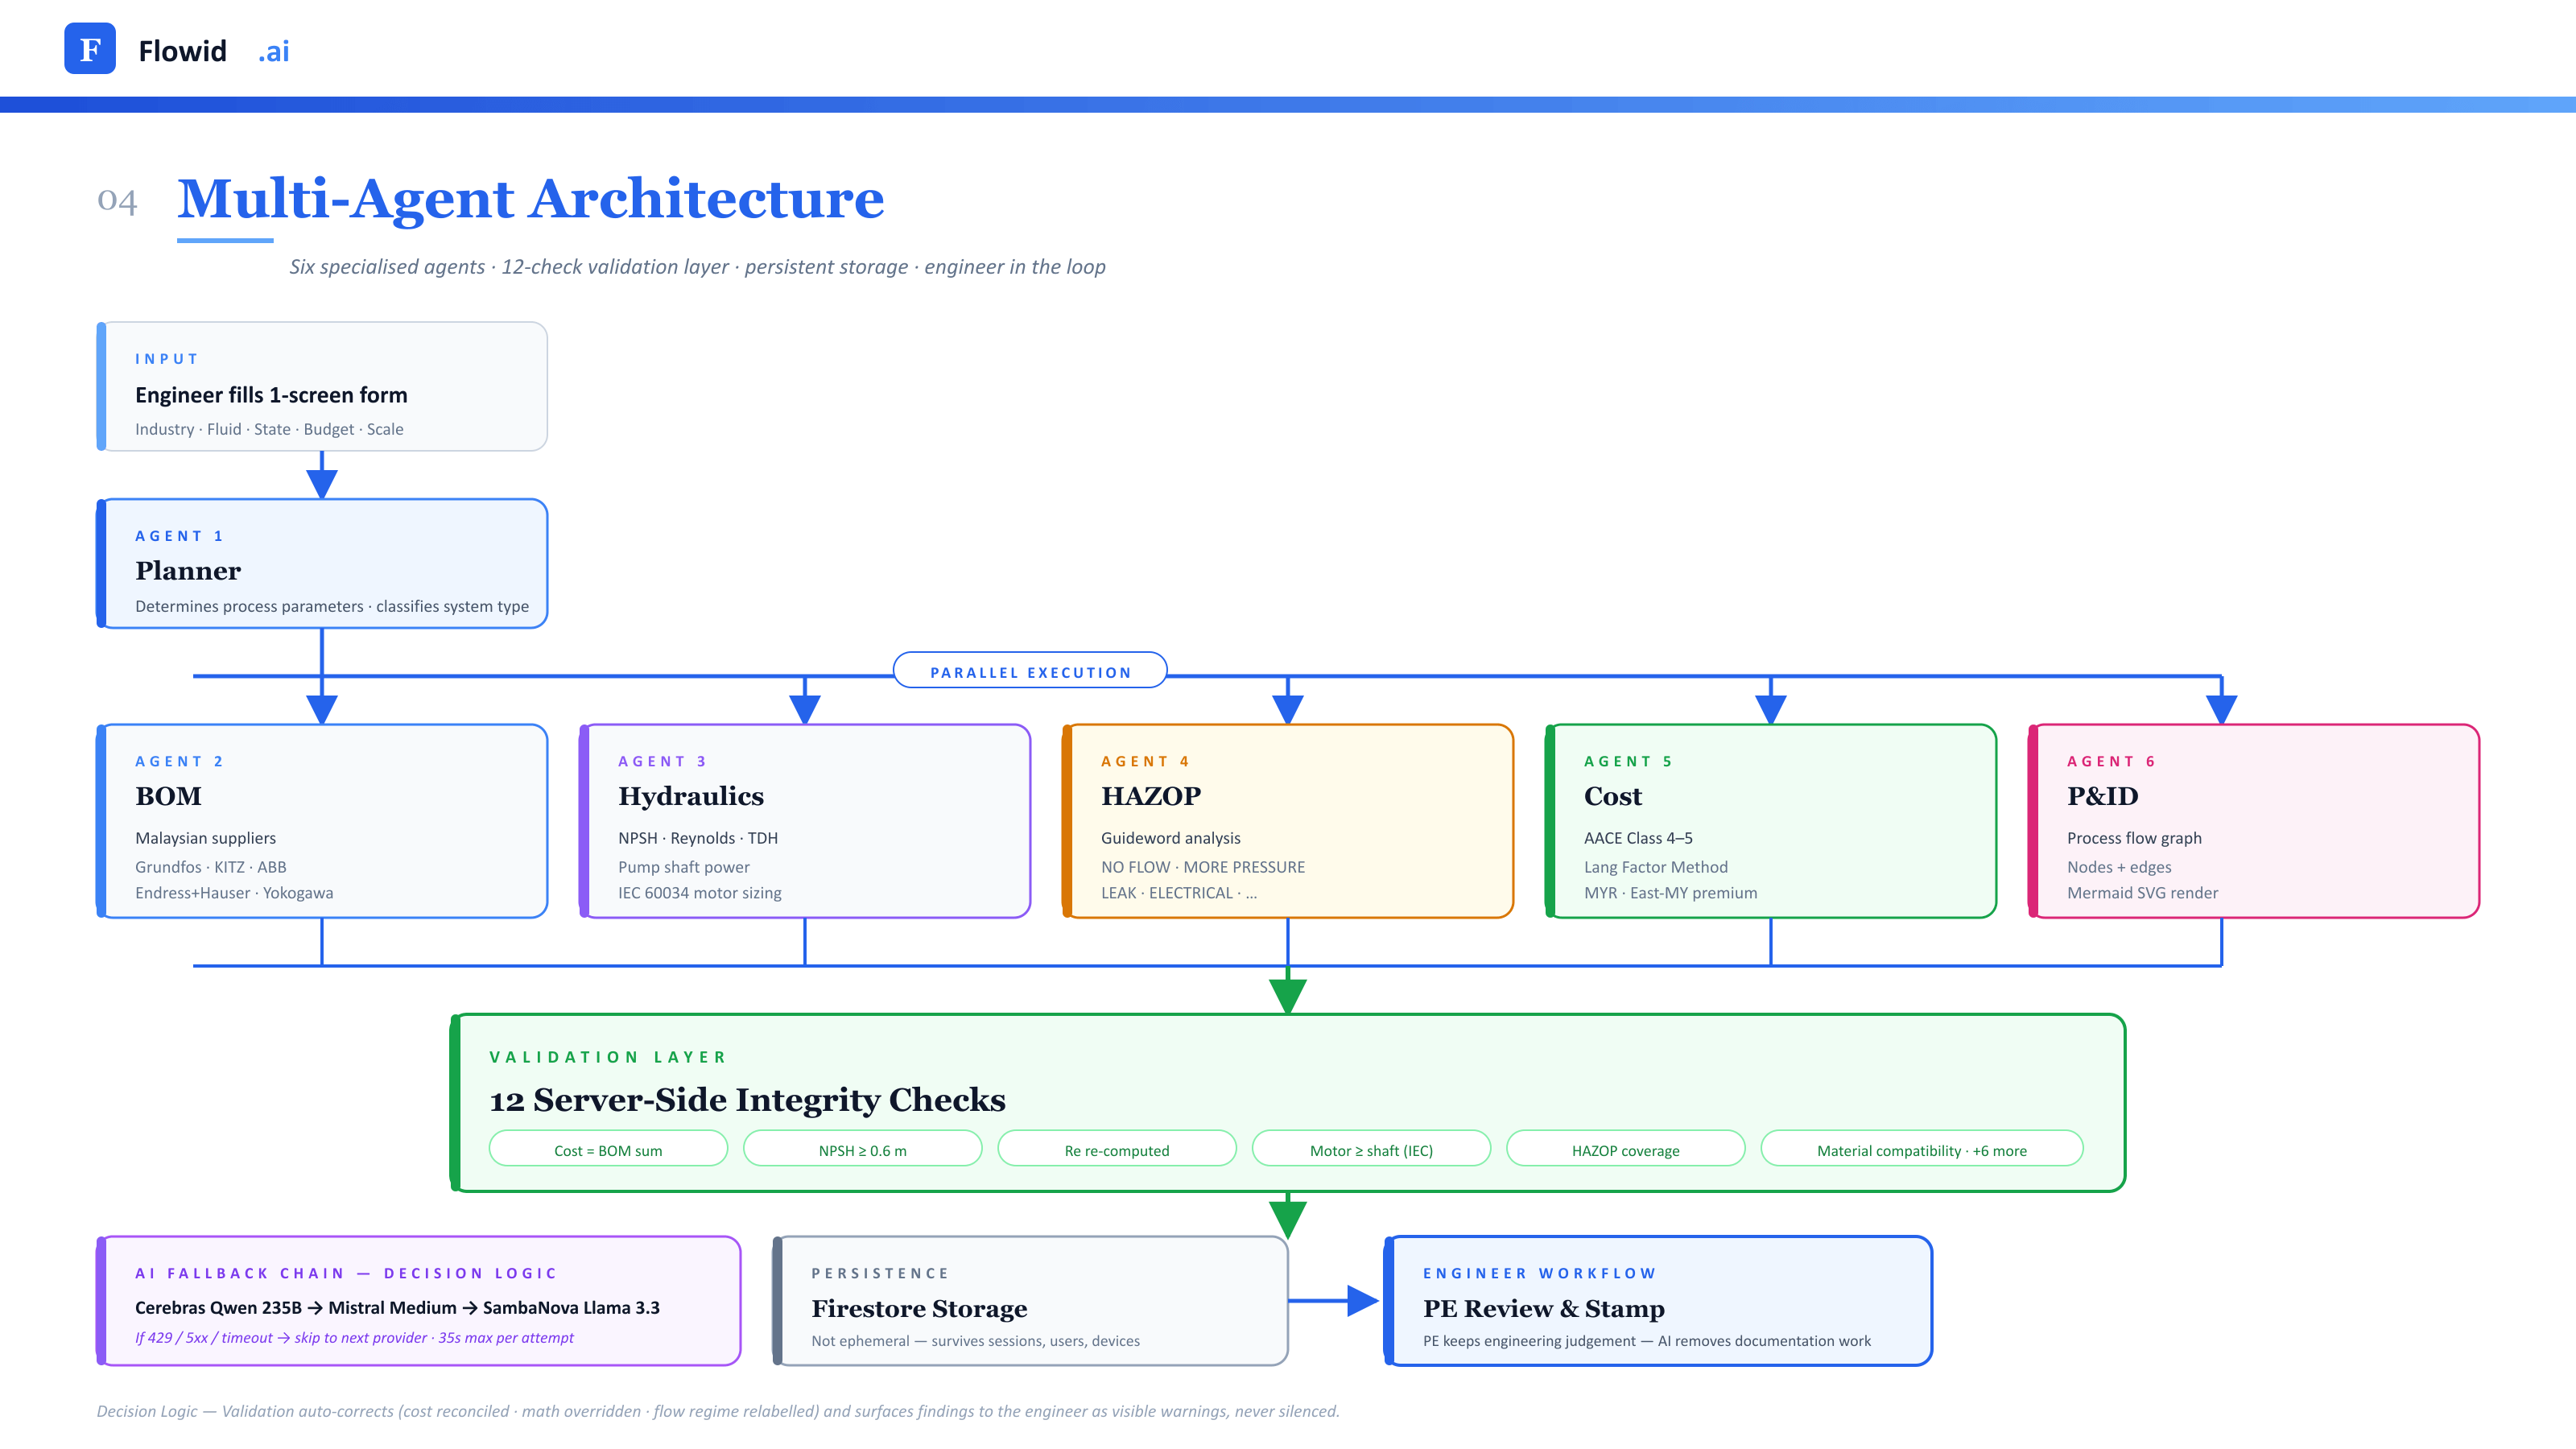
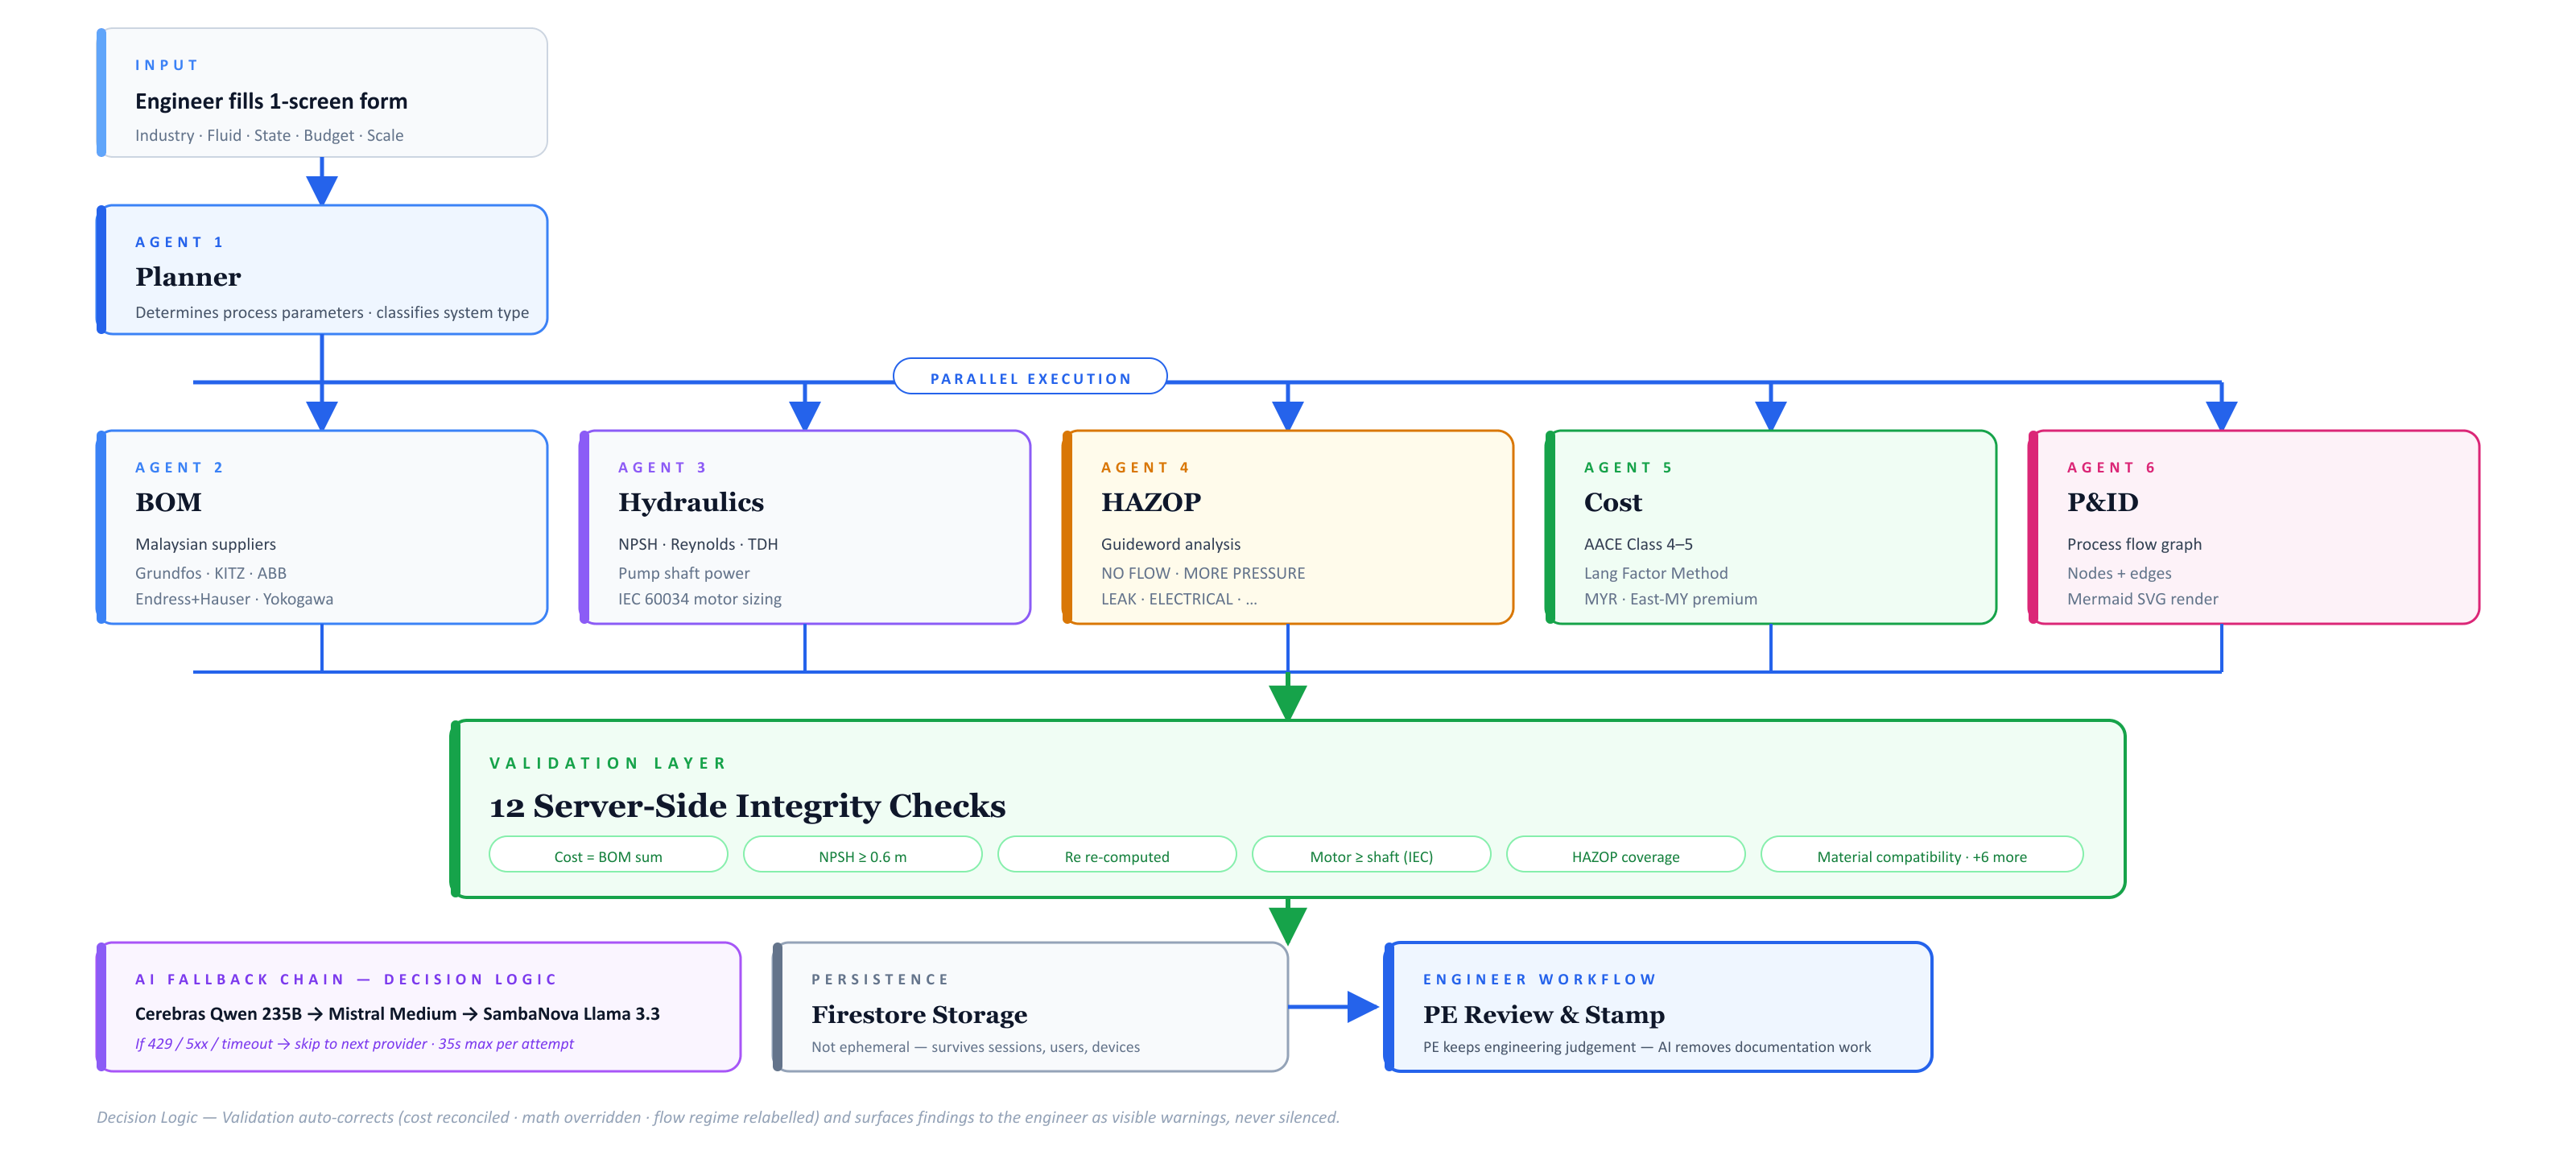
Fix validation: remove hard <8 component gate, accept any non-empty BOM

diff --git a/src/app/api/generate/route.ts b/src/app/api/generate/route.ts
@@ -570,9 +570,9 @@ INSTRUCTIONS:
 2. All costs in MYR. Use Malaysian market prices including SST.
 3. For suppliers: pick brands with offices or distributors nearest to ${state}. If in East Malaysia, account for extra logistics cost (10–15% premium). Calculate transportation cost separately as a line item based on shipment from supplier city to ${state}.
 4. Apply relevant Malaysian regulations (DOSH, BOMBA, SIRIM, DOE, PETRONAS PTS as applicable).
-5. For EVERY component, provide exactly 2 alternatives from DIFFERENT Malaysian suppliers with realistic MYR costs and confidence levels.
-6. For EVERY component assign a confidence_level (0–100) representing how confident you are this is the optimal choice for this specific application, fluid, and environment. Be honest — flag lower confidence when the application is unusual or specs are ambiguous.
-7. For EVERY component assign lifespan_years (expected service life before replacement/major overhaul under normal operating conditions in Malaysian climate) and lifespan_notes explaining key factors.
+5. SKIP the alternatives array for every component — leave "alternatives": [] to conserve output tokens for a complete BOM.
+6. For EVERY component assign confidence_level (0–100): how optimal this choice is for this fluid/environment.
+7. For EVERY component assign lifespan_years (service life before major overhaul in Malaysian climate).
 8. Assign overall_confidence (0–100) for the entire recommendation.
 9. COMPLETE BOM — procurement-ready, every physical item as its own line. Walk the P&ID from source to destination. Include all that apply (presence = engineering necessity; quantity = scale/budget):
 
@@ -629,7 +629,14 @@ PROCESS FLOW DIAGRAM (P&ID) — this drives a visual diagram. Quality requiremen
 - ΔP/L = f × (ρ × v²) / (2 × D), convert to bar/100m
 Use water properties at operating temperature; adjust for other fluids.
 
-Return ONLY this JSON. CRITICAL TOKEN STRATEGY: the BOM (components array) is the MOST IMPORTANT section — generate it COMPLETELY with 12-20 components covering every P&ID category. Place it EARLY in your output so it cannot be truncated. If you must shorten anything, shorten the engineering_notes and budget_notes text — NEVER shorten the components list. Aim for tight 1-2 sentence text fields throughout, but a complete BOM with full specs.
+COMPACT OUTPUT CONTRACT — mandatory to fit a complete BOM in the token budget:
+• specification / notes / lifespan_notes / price_basis / design_basis / engineering_notes: MAX 12 WORDS each. Use short phrases, not sentences.
+• hazop_summary / basis fields: MAX 15 WORDS each.
+• alternatives: [] — always empty. Skip entirely.
+• A BOM with 15 compact components beats 5 verbose ones every time.
+• If approaching token limit: finish components, then risks. Never cut components short.
+
+Return ONLY this JSON. components is generated FIRST so it cannot be truncated by token limits:
 {
   "summary": "2-3 sentence system overview",
   "system_type": "system classification",
@@ -647,24 +654,21 @@ Return ONLY this JSON. CRITICAL TOKEN STRATEGY: the BOM (components array) is th
   "components": [
     {
       "id": "C-001",
-      "name": "descriptive component name",
-      "category": "pump|valve|filter|vessel|fitting|electrical|safety|other",
+      "name": "Centrifugal Pump — Duty",
+      "category": "pump",
       "quantity": 1,
-      "specification": "full tech spec: size, rating, material, performance",
-      "material": "material of construction + reason",
-      "supplier": "real Malaysian supplier + city",
-      "model": "real model/series example",
-      "unit_cost_myr": 0,
-      "total_cost_myr": 0,
-      "notes": "selection rationale + MY compliance note",
-      "confidence_level": 85,
+      "specification": "DN50, 7.5kW, SS316 casing, API 610",
+      "material": "SS316",
+      "supplier": "Grundfos Malaysia, Shah Alam",
+      "model": "CM 10-3",
+      "unit_cost_myr": 12000,
+      "total_cost_myr": 12000,
+      "notes": "API 610; DOSH-registered; tropicalised motor",
+      "confidence_level": 88,
       "lifespan_years": 15,
-      "lifespan_notes": "1 sentence on lifespan factors",
-      "price_basis": "e.g. 'Grundfos MY May 2026 list price'",
-      "alternatives": [
-        { "name": "alt name", "supplier": "alt MY supplier", "model": "alt model", "reason": "why viable", "unit_cost_myr": 0, "total_cost_myr": 0, "confidence_level": 78 },
-        { "name": "alt2 name", "supplier": "alt2 MY supplier", "model": "alt2 model", "reason": "why viable", "unit_cost_myr": 0, "total_cost_myr": 0, "confidence_level": 72 }
-      ]
+      "lifespan_notes": "SS316 body; MY humidity allowance",
+      "price_basis": "Grundfos MY 2026 list",
+      "alternatives": []
     }
   ],
   "engineering_calculations": {
@@ -1070,8 +1074,7 @@ function reconcileCosts(rec: Record<string, unknown>): void {
 function validateRecommendation(rec: Record<string, unknown>): Record<string, unknown> {
   const cleaned = cleanRecommendation(rec);
 
-  // HARD requirements only: we must have a name, system_type, and at least 1 component.
-  // Everything else: try to validate, but DON'T reject if non-critical fields are off.
+  // Only hard-reject a completely empty BOM — anything else we accept and warn.
   const components = Array.isArray(cleaned.components) ? cleaned.components : [];
   if (components.length === 0) {
     throw new Error('AI response has no usable components (BOM is empty)');
@@ -1112,24 +1115,30 @@ interface ModelConfig {
 function buildModelRoster(): ModelConfig[] {
   const roster: ModelConfig[] = [];
 
-  // Groq Llama 3.3 70B — PRIMARY. Custom LPU silicon, ~50ms per call. Different
-  // infrastructure from all other providers — won't share rate-limit buckets.
+  // #1 Groq Llama 3.3 70B — LPU silicon, ~50ms/call. Hits 12k TPM with large prompts
+  // so kept first (usually succeeds on first attempt of the session).
   if (process.env.GROQ_API_KEY) {
     roster.push({ provider: 'groq', model: 'llama-3.3-70b-versatile', max_tokens: 8000 });
   }
-  // Cerebras Qwen 235B — second (fast, generous free tier)
+  // #2 Cerebras Llama 3.3 70B — WSE silicon, very fast, generous free tier, 20k output.
+  // IMPORTANT: model MUST be 'llama-3.3-70b' (Cerebras API name, not HuggingFace ID).
   if (process.env.CEREBRAS_API_KEY) {
-    roster.push({ provider: 'cerebras', model: 'qwen-3-235b-a22b-instruct-2507', max_tokens: 20000 });
+    roster.push({ provider: 'cerebras', model: 'llama-3.3-70b', max_tokens: 20000 });
   }
-  // Mistral Medium — third (different vendor, native JSON mode)
+  // #3 Gemini 2.0 Flash — completely different infra (Google), 15 req/min free,
+  // no TPM cap. Best fallback when Groq/Cerebras are rate-limited.
+  if (process.env.GEMINI_API_KEY) {
+    roster.push({ provider: 'gemini', model: 'gemini-2.0-flash', max_tokens: 16000 });
+  }
+  // #4 Mistral Medium — native JSON mode, different vendor
   if (process.env.MISTRAL_API_KEY) {
     roster.push({ provider: 'mistral', model: 'mistral-medium-latest', max_tokens: 10000 });
   }
-  // SambaNova Llama 3.3 70B — fourth (specialised fast hardware)
+  // #5 SambaNova Llama 3.3 70B — specialised hardware, frequent 429s
   if (process.env.SAMBANOVA_API_KEY) {
     roster.push({ provider: 'sambanova', model: 'Meta-Llama-3.3-70B-Instruct', max_tokens: 10000 });
   }
-  // Chutes DeepSeek V3 — fifth (paid tier, high quality)
+  // #6 Chutes DeepSeek V3 — paid tier, high quality, but 400s on json_object mode
   if (process.env.CHUTES_API_KEY) {
     roster.push({ provider: 'chutes', model: 'deepseek-ai/DeepSeek-V3.2-TEE', max_tokens: 16000 });
   }
@@ -1150,14 +1159,16 @@ function isRateLimitError(err: unknown): boolean {
   if (err instanceof Error) {
     if (
       err.message.includes('429') ||
+      err.message.includes('413') ||           // Groq: "413 Request too large ... tokens per minute"
       err.message.toLowerCase().includes('rate limit') ||
       err.message.toLowerCase().includes('too many') ||
+      err.message.toLowerCase().includes('too large') ||
       err.message.toLowerCase().includes('timed out')
     ) return true;
     if ('status' in err) {
       const status = (err as { status: number }).status;
-      // Treat 429 and 5xx (server-side unavailable) as "skip to next model"
-      if (status === 429 || (status >= 500 && status < 600)) return true;
+      // 429 = rate limit, 413 = request too large (Groq TPM), 5xx = server unavailable
+      if (status === 429 || status === 413 || (status >= 500 && status < 600)) return true;
     }
   }
   return false;
@@ -1180,6 +1191,10 @@ async function generateWithModel(
   const timer = setTimeout(() => controller.abort(), timeoutMs);
 
   try {
+    // response_format json_object is only supported by Groq, Cerebras, Gemini, Mistral.
+    // Chutes and SambaNova return 400 if this param is sent.
+    const supportsJsonMode = ['groq', 'cerebras', 'gemini', 'mistral'].includes(cfg.provider);
+
     const completion = await client.chat.completions.create(
       {
         model: cfg.model,
@@ -1189,7 +1204,7 @@ async function generateWithModel(
         ],
         max_tokens: cfg.max_tokens,
         temperature: 0.2,
-        response_format: { type: 'json_object' },
+        ...(supportsJsonMode ? { response_format: { type: 'json_object' } } : {}),
       },
       { signal: controller.signal },
     );

diff --git a/src/app/api/generate-agent/route.ts b/src/app/api/generate-agent/route.ts
@@ -19,7 +19,7 @@ import { checkInputGuardrail, checkOutputGuardrail } from '@/lib/agentGuardrails
 
 export const maxDuration = 120;
 
-// ── Provider clients (DeepSeek V3 via Chutes is best at tool calling) ─────
+// ── Provider clients ───────────────────────────────────────────────────────
 
 function getChutesClient() {
   return new OpenAI({
@@ -49,6 +49,13 @@ function getGroqClient() {
     maxRetries: 0,
   });
 }
+function getGeminiClient() {
+  return new OpenAI({
+    apiKey: process.env.GEMINI_API_KEY!,
+    baseURL: 'https://generativelanguage.googleapis.com/v1beta/openai/',
+    maxRetries: 0,
+  });
+}
 
 interface AgentProvider {
   provider: string;
@@ -59,31 +66,39 @@ interface AgentProvider {
 
 function buildAgentChain(): AgentProvider[] {
   const chain: AgentProvider[] = [];
-  // ─── ORDER OPTIMISED BY: speed × reliability × infrastructure diversity ──
-  // Tested 2026-06-02: each provider's tool-calling support was verified
-  // with a sample tool. This order minimises the chance of 504 timeouts
-  // (each iteration in the agent loop is bounded by 25s).
+  // ─── ORDER: speed × reliability × INDEPENDENT rate-limit buckets ──────────
+  //
+  // GROQ TPM = 12,000 tokens/min. Agent system prompt ≈ 1,500 tokens + growing
+  // message history ≈ 2,000+ tokens/call. max_tokens=2500 keeps each call under
+  // 4,500 tokens → 2+ calls fit in the 12k window without a 413/429.
+  //
+  // Gemini is a completely different infra (Google) — 15 req/min free tier,
+  // no TPM-style limit, so it's the cleanest fallback when everything else 429s.
 
-  // #1 Groq Llama 3.3 70B — 50ms per call. Different LPU silicon. PRIMARY.
+  // #1 Groq — LPU, ~50ms/call. Reduced tokens to stay under 12k TPM.
   if (process.env.GROQ_API_KEY) {
-    chain.push({ provider: 'groq', model: 'llama-3.3-70b-versatile', client: getGroqClient(), max_tokens: 6000 });
+    chain.push({ provider: 'groq', model: 'llama-3.3-70b-versatile', client: getGroqClient(), max_tokens: 2500 });
   }
-  // #2 Chutes Qwen3-32B — paid Pro account, smaller model = faster, separate infra from Mistral/SambaNova
-  if (process.env.CHUTES_API_KEY) {
-    chain.push({ provider: 'chutes-qwen', model: 'Qwen/Qwen3-32B-TEE', client: getChutesClient(), max_tokens: 6000 });
+  // #2 Gemini 2.0 Flash — Google infra, completely independent from all others.
+  // Supports function calling via OpenAI-compatible endpoint.
+  if (process.env.GEMINI_API_KEY) {
+    chain.push({ provider: 'gemini', model: 'gemini-2.0-flash', client: getGeminiClient(), max_tokens: 8000 });
   }
-  // #3 Mistral Large — Mistral's own infra. Good tool calling quality, ~3-6s per call.
+  // #3 Mistral Large — Mistral's own infra, good tool calling quality
   if (process.env.MISTRAL_API_KEY) {
-    chain.push({ provider: 'mistral', model: 'mistral-large-latest', client: getMistralClient(), max_tokens: 6000 });
+    chain.push({ provider: 'mistral', model: 'mistral-large-latest', client: getMistralClient(), max_tokens: 8000 });
   }
-  // #4 SambaNova Llama 3.3 70B — fast hardware but frequent 429s, so 4th not 2nd
+  // #4 SambaNova — fast hardware but frequent 429s
   if (process.env.SAMBANOVA_API_KEY) {
-    chain.push({ provider: 'sambanova', model: 'Meta-Llama-3.3-70B-Instruct', client: getSambaNovaClient(), max_tokens: 6000 });
+    chain.push({ provider: 'sambanova', model: 'Meta-Llama-3.3-70B-Instruct', client: getSambaNovaClient(), max_tokens: 8000 });
   }
-  // #5 + #6 More Chutes models — last because shared infrastructure with #2
+  // #5 Chutes DeepSeek V3 — paid Pro, good quality
   if (process.env.CHUTES_API_KEY) {
-    chain.push({ provider: 'chutes-glm',      model: 'zai-org/GLM-5.1-TEE',            client: getChutesClient(), max_tokens: 6000 });
-    chain.push({ provider: 'chutes-deepseek', model: 'deepseek-ai/DeepSeek-V3.2-TEE',  client: getChutesClient(), max_tokens: 6000 });
+    chain.push({ provider: 'chutes-deepseek', model: 'deepseek-ai/DeepSeek-V3.2-TEE', client: getChutesClient(), max_tokens: 8000 });
+  }
+  // #6 Chutes Qwen3-32B — smaller, faster than DeepSeek but same infra
+  if (process.env.CHUTES_API_KEY) {
+    chain.push({ provider: 'chutes-qwen', model: 'Qwen/Qwen3-32B-TEE', client: getChutesClient(), max_tokens: 8000 });
   }
   return chain;
 }

diff --git a/src/lib/agentTools.ts b/src/lib/agentTools.ts
@@ -182,12 +182,44 @@ export const AGENT_TOOLS = [
 // ── Tool implementations ───────────────────────────────────────────────────
 
 function approxWaterDensity(tempC: number): number {
-  // Crude water density approximation: 1000 - 0.2(t-4) kg/m³
+  // Crude water density: 1000 - 0.2(t-4) kg/m³
   return 1000 - 0.2 * Math.max(0, tempC - 4);
 }
 function approxWaterViscosity(tempC: number): number {
-  // Crude water viscosity: ~10^-3 Pa·s at 20°C, decreases with temp
+  // Water viscosity: ~10^-3 Pa·s at 20°C, decreases with temp
   return 0.001 * Math.exp(-0.025 * Math.max(0, tempC - 25));
+}
+
+/** Returns [density_kg_m3, viscosity_Pa_s] for the given fluid and temperature */
+function getFluidProps(fluid: string | undefined, tempC: number): [number, number] {
+  const f = (fluid ?? '').toLowerCase();
+  // Palm / Crude Palm Oil (CPO): ρ≈920 kg/m³, viscosity drops steeply with temp
+  if (f.includes('palm') || f.includes('cpo')) {
+    const rho = 920 - 0.6 * Math.max(0, tempC - 25); // approx 920→882 over 25-90°C
+    // CPO viscosity (Pa·s): ~0.12 at 40°C, ~0.025 at 65°C, ~0.008 at 90°C
+    const mu = 0.0011 * Math.exp(3200 / (tempC + 273.15) - 3200 / 313.15) * 0.12;
+    return [Math.max(rho, 830), Math.max(mu, 0.005)];
+  }
+  // Steam / vapour: very low density, high velocity
+  if (f.includes('steam')) {
+    const rho = f.includes('hp') ? 15 : 5; // kg/m³ rough (saturated steam)
+    return [rho, 1.5e-5];
+  }
+  // Ammonia liquid: ρ≈682 kg/m³ at -10°C, viscosity ~0.15 mPa·s
+  if (f.includes('ammonia') || f.includes('nh3')) {
+    return [682 - 0.5 * (tempC + 10), 0.00015];
+  }
+  // Caustic soda / NaOH ~20%: ρ≈1220, μ≈1.5×water
+  if (f.includes('caustic') || f.includes('naoh')) {
+    return [1220, approxWaterViscosity(tempC) * 1.5];
+  }
+  // Acids (HCl, H2SO4 dilute): ρ≈1050-1100, μ≈water
+  if (f.includes('acid') || f.includes('hcl') || f.includes('h2so4')) {
+    return [1080, approxWaterViscosity(tempC)];
+  }
+  // Chilled water / cooling water — same as water
+  // Default: water
+  return [approxWaterDensity(tempC), approxWaterViscosity(tempC)];
 }
 
 export function tool_derive_process_parameters(args: {
@@ -254,8 +286,7 @@ export function tool_calculate_hydraulics(args: {
   const Dm = args.pipe_diameter_inch * 0.0254; // inch → m
   const area = Math.PI * (Dm / 2) ** 2;
   const v = Q / area; // m/s
-  const rho = approxWaterDensity(args.operating_temp_c);
-  const mu = approxWaterViscosity(args.operating_temp_c);
+  const [rho, mu] = getFluidProps(args.fluid, args.operating_temp_c);
   const Re = (rho * v * Dm) / mu;
   const regime = Re < 2300 ? 'laminar' : Re < 4000 ? 'transitional' : 'turbulent';
   // Swamee-Jain explicit friction factor for turbulent flow (roughness 0.046 mm carbon steel)

diff --git a/src/lib/agentLoop.ts b/src/lib/agentLoop.ts
@@ -70,6 +70,12 @@ RECOMMENDED TOOL SEQUENCE — keep it to ≤8 tool calls:
 
 You have a HARD LIMIT of 10 tool calls. Batch your work. Do not waste round-trips.
 
+COMPACT OUTPUT CONTRACT for finalize_design — your recommendation must fit in one tool call:
+• All text fields (specification, notes, lifespan_notes, price_basis, design_basis): MAX 12 WORDS each.
+• alternatives: [] — always empty. Never populate alternatives.
+• A complete BOM of 15 compact components is worth more than 5 verbose ones.
+• Keep risks terse: hazard + cause (1 phrase each). Keep process_flow node labels short (≤4 words).
+
 OUTPUT FIELD NAMES in finalize_design.recommendation:
   summary, system_type, design_basis, overall_confidence, process_parameters, engineering_calculations,
   process_flow (nodes + edges), components (id/name/category/quantity/specification/material/supplier/model/unit_cost_myr/total_cost_myr/notes/confidence_level/lifespan_years/price_basis),
@@ -86,7 +92,7 @@ You are an AGENT. Do the work. Do not shortcut the BOM.`;
 // Vercel function ceiling is 120s. At ~10s per tool round-trip, 25 iterations
 // blows past the budget. Capped at 10 so the agent finishes within the window.
 const MAX_ITERATIONS = 10;
-const MAX_TOOL_RESULT_SIZE = 12000; // chars — truncate huge tool outputs
+const MAX_TOOL_RESULT_SIZE = 20000; // chars — finalize_design JSON can be 10-15k; keep it intact
 
 function truncate(s: string, max = MAX_TOOL_RESULT_SIZE): string {
   if (s.length <= max) return s;
@@ -179,7 +185,7 @@ export async function runAgentLoop(
           messages,
           tools: AGENT_TOOLS,
           tool_choice: 'auto',
-          max_tokens: cfg.max_tokens ?? 6000,
+          max_tokens: cfg.max_tokens ?? 8000,
           temperature: 0.1,
         },
         { signal: iterController.signal },
@@ -197,17 +203,17 @@ export async function runAgentLoop(
     const msg = completion.choices[0]?.message;
     if (!msg) break;
 
-    // No tool calls → model wants to finalise via text. Push it and try to coerce next round.
+    // No tool calls → model wants to finalise via text. Push it back every iteration
+    // until we hit the ceiling (we never accept a text-only response as a valid finalize).
     if (!msg.tool_calls || msg.tool_calls.length === 0) {
       messages.push({ role: 'assistant', content: msg.content ?? '' });
-      // If we've run a fair number of iterations, accept the text and stop
-      if (iter >= 2) {
-        // No finalize_design called — treat as failure
+      if (iter >= MAX_ITERATIONS - 1) {
+        // Last chance — treat as failure
         break;
       }
       messages.push({
         role: 'user',
-        content: 'You must call a tool. If the design is complete, call finalize_design with the full recommendation. Otherwise call the next tool you need.',
+        content: 'You MUST call a tool. Do NOT return plain text. If the design is complete, call finalize_design with the full recommendation object. Otherwise call the next tool in the sequence.',
       });
       continue;
     }
@@ -264,7 +270,7 @@ export async function runAgentLoop(
             content: JSON.stringify({
               status: 'REJECTED — your recommendation is incomplete. Do not call finalize_design yet.',
               issues,
-              instruction: 'Expand the BOM to cover ALL system components (pumps with seals + couplings, suction/discharge/check/PSV/control/drain/vent valves, headers + expansion vessel, piping/fittings/supports, ALL instruments FT/PT/TT/LT, MCC + control panel + cables + earthing, skid + bund, safety devices, commissioning items). Then add ≥15 HAZOP risk entries covering the standard guidewords. Then add piping spec, instrumentation list with tags, cost_estimate, process_flow (≥10 nodes), maintenance_schedule, compliance_standards, recommended_vendors. THEN call finalize_design with the complete recommendation. Use your tools more — call lookup_malaysian_suppliers for each category, reconcile_costs_aace once you have the full BOM.',
+              instruction: 'Expand the BOM to cover ALL system components (pumps with seals + couplings, suction/discharge/check/PSV/control/drain/vent valves, headers + expansion vessel, piping/fittings/supports, ALL instruments FT/PT/TT/LT, MCC + control panel + cables + earthing, skid + bund, safety devices, commissioning items). Then add ≥15 HAZOP risk entries covering the standard guidewords. Then add piping spec, instrumentation list with tags, cost_estimate, process_flow (≥8 nodes), maintenance_schedule, compliance_standards, recommended_vendors. THEN call finalize_design with the complete recommendation. If you have not yet called lookup_malaysian_suppliers, call it ONCE with ALL categories in a single "categories" array — do NOT make multiple calls.',
             }),
           } as OpenAI.Chat.Completions.ChatCompletionMessageParam);
         }